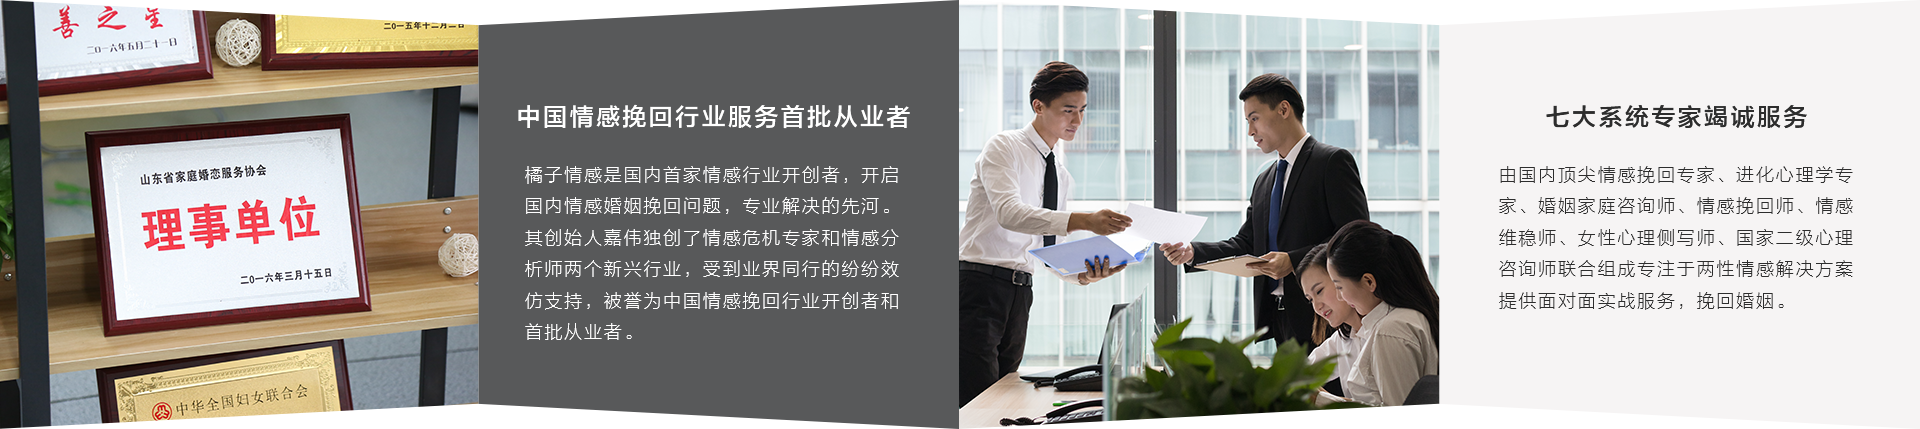
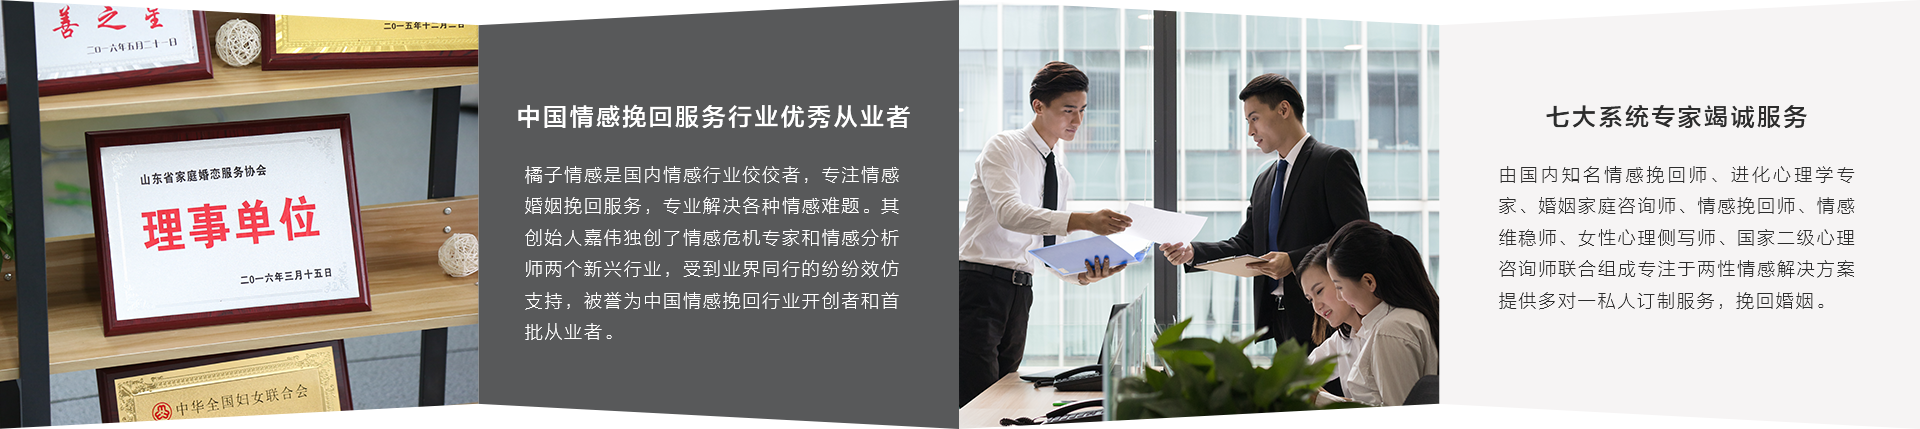
修改涉嫌违反广告法的词和图片

diff --git a/index.html b/index.html
@@ -422,7 +422,7 @@
 		<div class="txt text-left">
 		  <div class="name mentorName mentor006">皓霖</div>
 		  <div class="info">
-		    国家心理咨询师，心理健康指导师，长期关系维护专家，资深情感导师
+		    权威心理咨询师，心理健康指导师，长期关系维护专家，资深情感导师
 		  </div>
 		  <div class="des">
 		    导师寄语：表达想法的能力，和想法本身，一样重要。大道至简，知易行
@@ -515,9 +515,9 @@
 	    </div>
 	    <span class="ora-dynamic-left-title">行业标杆的情感导师培植计划</span>
 	    <p class="ora-dynamic-left-para">
-	    橘子情感的创始团队，作为业内首批从业者，制定了众多行业准则，以及在实践
+	    橘子情感的创始团队，作为业内优秀领导者，制定了众多行业准则，以及在实践
 	    中不断地创新理论，以及丰富完善教学经验。多年来的也一直致力于为业内培养
-	    输送人才，培育为情感教育界的“西点军校”。此次上海站的巡回培植讲座，更是
+	    输送人才，被誉为情感教育界的“西点军校”。此次上海站的巡回培植讲座，更是
 	    秉承着 “专业•责任•奉献”的理念，培养出有一批优秀实习导师。
 	    </p>
 	  </div>
@@ -719,8 +719,7 @@
 	      无微不至
 	    </h2>
 	    <p>
-	    所有付费用户的情况，都会有专属的专业导师组，多对一进行指导，任何问题及
-	    时得到解答，用户情感状况的每一个转折点，都在导师掌握中。
+	    所有付费用户的情况，都会有专属的专业导师组，多对一进行指导，任何问题及时得到解答，用户情感状况的每一个转折点，都在导师掌握中。
 	    </p>
 	  </li>
 	  <li class="li12">
@@ -728,8 +727,7 @@
 	      专业团队
 	    </h2>
 	    <p>
-	    橘子情感所有导师，均为业内资深导师，有着平均4年以上的实战指导经验，在两
-	    性情感学都这多年的研究经验。
+	    橘子情感所有导师，均为业内资深导师，有着平均多年以上的实战指导经验，在两性情感方面有着丰富的研究经验。
 	    </p>
 	  </li>
 	  <li class="li13">
@@ -737,8 +735,7 @@
 	      私人订制
 	    </h2>
 	    <p>
-	    每一位用户的情况，都会得到重视，无论是总体战略，还是每一步细节操作，均
-	    为结合具体情况的私人定制方案，确保成功率。
+	    每一位用户的情况，都会得到重视，无论是总体战略，还是每一步细节操作，均为结合具体情况的私人定制方案，精准把控成功率。
 	    </p>
 	  </li>
 	  <li class="li14">
@@ -746,8 +743,7 @@
 	      用户保障
 	    </h2>
 	    <p>
-	    橘子情感作为行业的标杆，对行业的发展有着一份沉甸甸的责任。以身作则，将
-	    用户的权益放在首位，保障用户隐私以及情况解决。
+	    橘子情感作为行业的标杆，对行业的发展有着一份沉甸甸的责任。以身作则，将用户的权益放在首位，保障用户隐私以及情况解决。
 	    </p>
 	  </li>
 	</ul>

diff --git a/save-love.html b/save-love.html
@@ -372,13 +372,7 @@
 						</div>
 					</div>
 				</div>
-				<!--/--------------------->
 
-				<!--
-            		作者：706861648@qq.com
-            		时间：2017-08-02
-            		描述：橘子情感优势模块
-            	-->
 				<div class="biaoti6">
 					<img src="img/biaoti-left.png" alt="橘子情感优势图标" />
 					<span>橘子情感优势</span>
@@ -386,13 +380,8 @@
 					<p>ORANGE EMOTIONAL ADVANTAGE</p>
 				</div>
 				<div class="body4"></div>
-				<!--/--------------------->
 
-				<!--
-            		作者：706861648@qq.com
-            		时间：2017-08-02
-            		描述：擅长挽回的爱情类型模块
-            	-->
+
 				<div class="biaoti9">
 					<img src="img/biaoti-left.png" alt="擅长挽回的爱情类型图标" />
 					<span>擅长挽回的爱情类型</span>
@@ -588,11 +577,11 @@
 					<div id="LoopDiv">
 						<input id="S_Num" type="hidden" value="8" />
 						<div id="starsIF" class="imageflow">
-							<img src="img/save-love/daoshi-jiawei.png" longdesc="views/page1.html" alt="橘子情感导师--嘉伟" />
-							<img src="img/save-love/daoshi-asu.png" longdesc="views/page4.html" alt="橘子情感导师--阿苏" />
-							<img src="img/save-love/daoshi-zhengran.png" longdesc="views/page3.html" alt="橘子情感导师--正然" />
-							<img src="img/save-love/daoshi-jiaxin.png" longdesc="views/page6.html" alt="橘子情感导师--佳馨" />
-							<img src="img/save-love/daoshi-mingyan.png" longdesc="views/page5.html" alt="橘子情感导师--路加" />
+							<img src="img/save-love/daoshi01.png" longdesc="views/page1.html" alt="橘子情感导师" />
+							<img src="img/save-love/daoshi02.png" longdesc="views/page4.html" alt="橘子情感导师" />
+							<img src="img/save-love/daoshi03.png" longdesc="views/page3.html" alt="橘子情感导师" />
+							<img src="img/save-love/daoshi04.png" longdesc="views/page11.html" alt="橘子情感导师" />
+							<img src="img/save-love/daoshi05.png" longdesc="views/page5.html" alt="橘子情感导师" />
 						</div>
 					</div>
 					<div class="clear"></div>

diff --git a/custom-love.html b/custom-love.html
@@ -423,7 +423,7 @@
                                         </div>
 									</div>
 									<p class="para">
-										橘子情感是国内首家情感行业领军者，开启国内实现情感自由，专业解决的先河。公司员工为国内情感行业首批一线工作者，经验丰富。
+										橘子情感是国内情感行业翘楚，开启国内实现情感自由，专业解决的先河。公司员工为国内情感行业首批一线工作者，经验丰富。
 									</p>
 								</div>
 								<div class="item col-md-4 col-sm-4">
@@ -437,7 +437,7 @@
                                         </div>
                                     </div>
 									<p class="para">
-										由国内顶尖情感专家、进化心理学专家、情感维稳师、女性心理侧写师、国家心理咨询师联合组成专注于两性情感解决方案的导师团队，提供面对面实战服务以及后期关系维稳服务
+										由国内知名情感专家、进化心理学专家、情感维稳师、女性心理侧写师、国家心理咨询师联合组成专注于两性情感解决方案的导师团队，提供面对面实战服务以及后期关系维稳服务
 									</p>
 								</div>
 								<div class="item col-md-4 col-sm-4">

diff --git a/views/page3.html b/views/page3.html
@@ -176,13 +176,13 @@
 							<div class="mentor mentor-intro">
 								<p class="name title mentorName mentor006"></p>
 								<p class="intro">
-									国家心理咨询师，长期关系维护专家，资深情感导师，真命狙击专家，实战约会专家
+									权威心理咨询师，长期关系维护专家，资深情感导师，真命狙击专家，实战约会专家
 								</p>
 							</div>
 							<div class="mentor mentor-des">
 								<p class="title">导师简介：</p>
 								<p class="para">
-									擅长长期关系状态维护，狙击目标。在自身操作，以及带队指导学员狙击真命方面，成功率常年保持在95%以上。 极其擅长引导对方深层次沟通，引导对方情绪。其《阶梯式攻心法则》、《爱情催眠术》等理论， 适用于几乎所有高难度案例。
+									擅长长期关系状态维护，狙击目标。在自身操作，以及带队指导学员狙击真命方面，成功率稳居团队前列。 极其擅长引导对方深层次沟通，引导对方情绪。其《阶梯式攻心法则》、《爱情催眠术》等理论， 适用于几乎所有高难度案例。
 								</p>
 							</div>
 							<div class="mentor mentor-say">

diff --git a/save-marriage.html b/save-marriage.html
@@ -259,7 +259,7 @@
 							<div class="para">
 								<p class="top-para">中国情感挽回行业权威领导者，导师拥有多年从业经验，已经累计为数万人解决情感问题，针对挽回婚姻、 挽回爱情、恋商提高、长期关系维护等领域具有权威地位。
 								</p>
-								<p class="bot-para">由国内顶尖情感挽回师、情感维稳师、心理咨询师、心理侧写师、进化心理学专家、 两性心理学专家联合组成强大的理论供给团队，为两性情感解决方案提供理论基础。
+								<p class="bot-para">由国内知名情感挽回师、情感维稳师、心理咨询师、心理侧写师、进化心理学专家、 两性心理学专家联合组成强大的理论供给团队，为两性情感解决方案提供理论基础。
 								</p>
 								<div class="bg-inner"></div>
 							</div>

diff --git a/views/page5.html b/views/page5.html
@@ -182,7 +182,7 @@
 	      <div class="mentor mentor-des">
 		<p class="title">导师简介：</p>
 		<p class="para">
-		  国内VIP级情感咨询师,从事情感咨询工作十余年,多次赴上海杭州等地区，举办情感活动,帮助咨询者围绕核心问题，实现关系逆转.
+		金牌情感咨询师，从事情感咨询工作多年，多次赴上海杭州等地区，参加情感咨询活动。帮助咨询者围绕核心问题，实现关系逆转。
 		</p>
 		<p class="para">
 		从事心理工作十余年，擅长以精神分析、沙盘、萨提亚家庭、催眠、意象对话、家庭系统排列的方法，处理高难度婚姻恋爱问题，帮助个案个人成长、地位反转、原生家庭关系梳理、长期关系维护.

diff --git a/views/page4.html b/views/page4.html
@@ -182,7 +182,7 @@
 	      <div class="mentor mentor-des">
 		<p class="title">导师简介：</p>
 		<p class="para">
-		赴美留学2年，从事情感咨询工作7年，有丰富的情感修复实战经验，致力于两性平衡关系的研究工作，以多年对两性恋爱学的研究，帮助咨询者探索两性的相处模式。
+		赴美留学2年，从事情感咨询工作多年，有丰富的情感修复实战经验，致力于两性平衡关系的研究工作，以多年对两性恋爱学的研究，帮助咨询者探索两性的相处模式。
 		</p>
 	      </div>
 	      <div class="mentor mentor-say">

diff --git a/views/page6.html b/views/page6.html
@@ -182,7 +182,7 @@
 	      <div class="mentor mentor-des">
 		<p class="title">导师简介：</p>
 		<p class="para">
-		国内第一批情感咨询导师，权威进化心理学专家。
+		资深情感咨询师，权威进化心理学专家。
 		</p>
 		<p class="para">
 		对于安全感缺失分手、情感疲惫分手、两性关系信任不足、亲密关系保持、婚前焦虑、家庭关系（婆媳关系、亲子关系）、失恋及离婚后心理调适，等当今中国普遍的情感问题，有着独到的高效解决方法。

diff --git a/css/about-us.css b/css/about-us.css
@@ -7,7 +7,7 @@
 .child-page .head-bgimg {
   width: 100%;
   height: 680px;
-  background: url(../img/about-us/leading-edge-bgimg.jpg) center center no-repeat;
+  background: url(../img/about-us/leading-edge-bgimg.png) center center no-repeat;
   background-size: 100%;
 }
 .child-page .head1 {

diff --git a/css/focus-team.css b/css/focus-team.css
@@ -11,7 +11,7 @@
   	overflow: hidden;
 }
 .body-bgimg{
-	background: url(../img/focus-team/head-bgimg.jpg) no-repeat center center;
+	background: url(../img/focus-team/head-bgimg.png) no-repeat center center;
  	-webkit-background-size: cover;
   	background-size: cover;
   	width: 100%;
